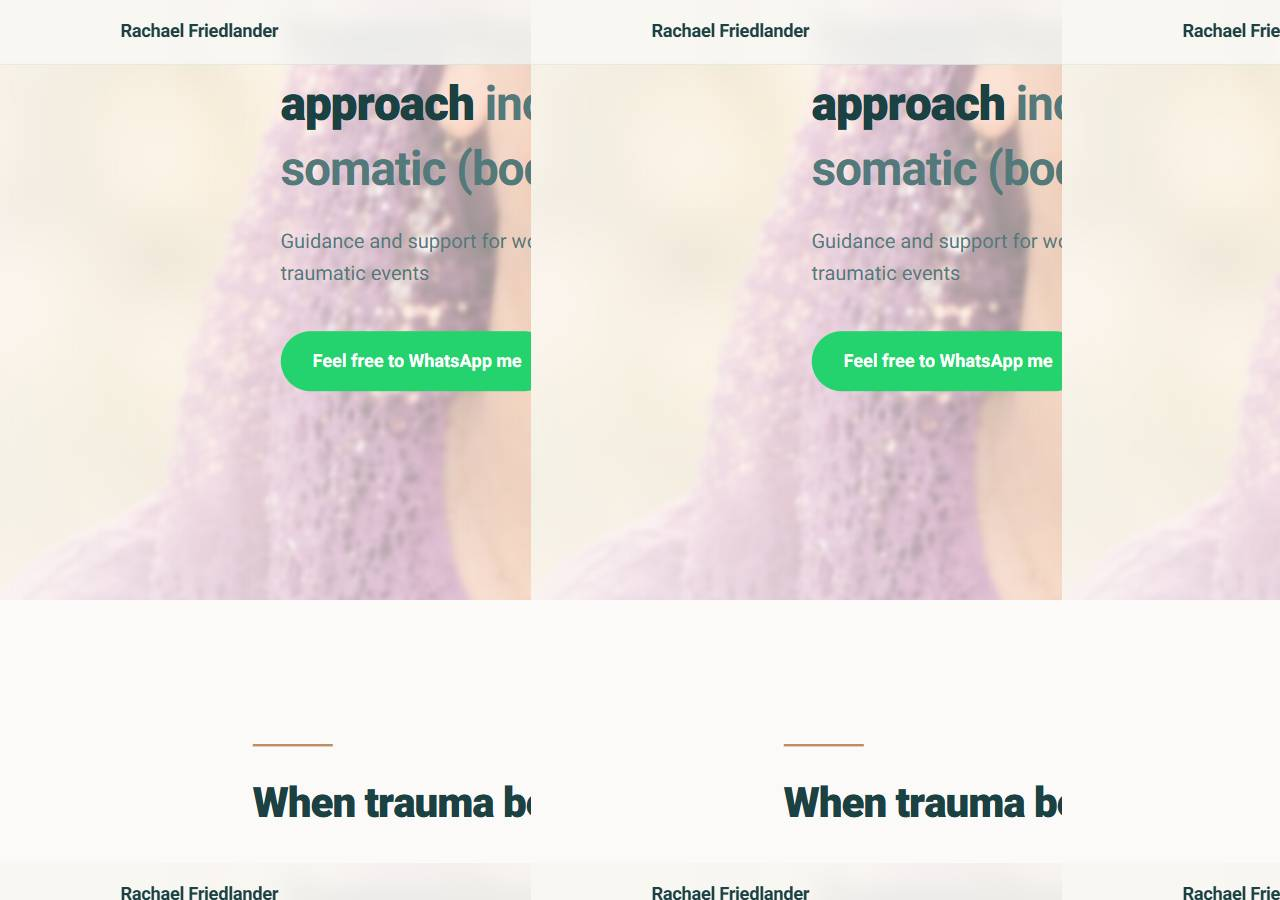
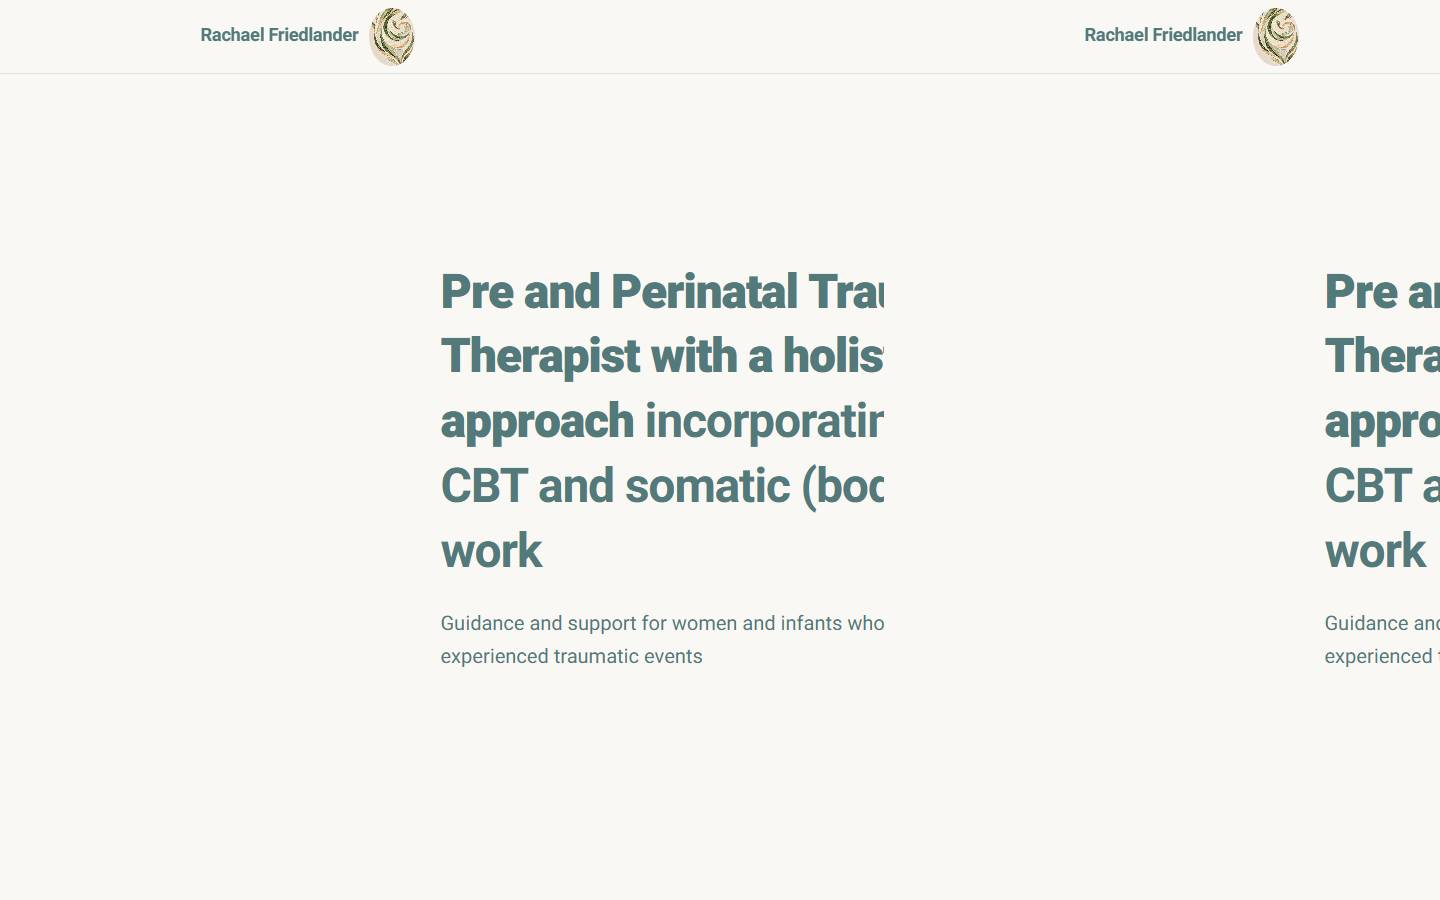
Hebrew, and alignment fixes

diff --git a/index.html b/index.html
@@ -5,6 +5,25 @@
   <meta name="viewport" content="width=device-width, initial-scale=1">
   <title>Rachael Friedlander | Trauma Therapist</title>
   <meta name="description" content="Guidance and support for women and infants who have experienced traumatic events. Trauma therapy with a holistic approach incorporating CBT and somatic work.">
+  <script>
+    (function () {
+      var stored;
+      try { stored = localStorage.getItem("lang"); } catch (e) {}
+      var primary = (navigator.language || "").toLowerCase();
+      var hebrew = /^he([-_]|$)/.test(primary) || /^iw([-_]|$)/.test(primary);
+      var lang = stored === "he" || stored === "en" ? stored : (hebrew ? "he" : "en");
+      var root = document.documentElement;
+      root.lang = lang;
+      root.dir = lang === "he" ? "rtl" : "ltr";
+      if (lang === "he") {
+        document.title = "רחל פרידלנדר | מטפלת בטראומה";
+        var desc = document.querySelector('meta[name="description"]');
+        if (desc) {
+          desc.setAttribute("content", "ליווי ותמיכה לנשים ולתינוקות שחוו אירועים טראומטיים. טיפול בטראומה בגישה הוליסטית המשלבת CBT ועבודה סומטית.");
+        }
+      }
+    })();
+  </script>
   <link rel="preconnect" href="https://fonts.googleapis.com">
   <link rel="preconnect" href="https://fonts.gstatic.com" crossorigin>
   <link href="https://fonts.googleapis.com/css2?family=Heebo:wght@400;500;600;700;800;900&display=swap" rel="stylesheet">
@@ -13,7 +32,15 @@
 <body>
   <header class="site-header">
     <div class="wrap header-inner">
-      <a class="brand" href="#top">Rachael Friedlander <img class="brand-logo" src="images/logo.png" alt=""></a>
+      <a class="brand" href="#top">
+        <span class="i18n-en">Rachael Friedlander</span>
+        <span class="i18n-he">רחל פרידלנדר</span>
+        <img class="brand-logo" src="images/logo.png" alt="">
+      </a>
+      <div class="lang-switch" role="group" aria-label="Language">
+        <button type="button" class="lang-option" data-set-lang="en" lang="en">EN</button>
+        <button type="button" class="lang-option" data-set-lang="he" lang="he">עב</button>
+      </div>
     </div>
   </header>
 
@@ -24,18 +51,35 @@
       </div>
       <div class="hero-shade" aria-hidden="true"></div>
       <div class="wrap hero-copy">
-        <h1>Pre and Perinatal Trauma Therapist with a holistic approach <span class="h1-muted">incorporating CBT and somatic (body) work</span></h1>
-        <p class="lede">Guidance and support for women and infants who have experienced traumatic events</p>
+        <h1>
+          <span class="i18n-en">Pre and Perinatal Trauma Therapist with a holistic approach</span>
+          <span class="i18n-he">מטפלת בטראומה <span class="nowrap">טרום־לידתית</span> ו<span class="nowrap">סב־לידתית</span> בגישה הוליסטית</span>
+          <span class="h1-muted i18n-en">incorporating CBT and somatic (body) work</span>
+          <span class="h1-muted i18n-he">המשלבת <span class="ltr">CBT</span> ועבודה סומטית <span class="nowrap">(עבודה עם הגוף)</span></span>
+        </h1>
+        <p class="lede">
+          <span class="i18n-en">Guidance and support for women and infants who have experienced traumatic events</span>
+          <span class="i18n-he">ליווי ותמיכה לנשים ולתינוקות שחוו אירועים טראומטיים</span>
+        </p>
       </div>
     </section>
 
     <section class="band band-card">
       <div class="wrap narrow">
         <span class="rule" aria-hidden="true"></span>
-        <h2>When trauma becomes overwhelming</h2>
+        <h2>
+          <span class="i18n-en">When trauma becomes overwhelming</span>
+          <span class="i18n-he">כשהטראומה הופכת למציפה</span>
+        </h2>
         <!-- DRAFT FOR REVIEW: These two paragraphs were blank in the Google Doc. They use only the people and methods Rachael already named. Replace them when final copy is ready. -->
-        <p>Trauma can show up as anxiety, chronic pain, grief, a difficult birth, or a relationship that feels stuck. It can leave you overwhelmed, disconnected, or unsure how to help your child.</p>
-        <p class="emphasis">Sessions bring together CBT and somatic work, so we can go at your pace with both the story and what the body is holding, and look for what helps you, and/or your family/baby, feel safer and more stable.</p>
+        <p>
+          <span class="i18n-en">Trauma can show up as anxiety, chronic pain, grief, a difficult birth, or a relationship that feels stuck. It can leave you overwhelmed, disconnected, or unsure how to help your child.</span>
+          <span class="i18n-he">טראומה יכולה להופיע כחרדה, כאב כרוני, אבל, לידה קשה, או קשר שמרגיש תקוע. היא יכולה להשאיר תחושה של הצפה וניתוק, או קושי לדעת איך לעזור לילד.</span>
+        </p>
+        <p class="emphasis">
+          <span class="i18n-en">Sessions bring together CBT and somatic work, so we can go at your pace with both the story and what the body is holding, and look for what helps you, and/or your family/baby, feel safer and more stable.</span>
+          <span class="i18n-he">במפגשים משלבים <span class="ltr">CBT</span> ועבודה סומטית, כך שאפשר להתקדם בקצב שלך גם עם הסיפור וגם עם מה שהגוף מחזיק, ולחפש את מה שעוזר לך ו/או למשפחה או לתינוק להרגיש יותר ביטחון ויציבות.</span>
+        </p>
       </div>
     </section>
 
@@ -45,22 +89,43 @@
       </div>
       <div class="wrap">
         <span class="rule" aria-hidden="true"></span>
-        <h2>Who I help</h2>
+        <h2>
+          <span class="i18n-en">Who I help</span>
+          <span class="i18n-he">את מי אני מלווה</span>
+        </h2>
         <div class="cards">
           <article class="card">
             <span class="rule" aria-hidden="true"></span>
-            <h3>Women</h3>
-            <p>Women who are suffering from depression, anxiety, grief, loss, or relational issues.</p>
+            <h3>
+              <span class="i18n-en">Women</span>
+              <span class="i18n-he">נשים</span>
+            </h3>
+            <p>
+              <span class="i18n-en">Women who are suffering from depression, anxiety, grief, loss, or relational issues.</span>
+              <span class="i18n-he">נשים שסובלות מדיכאון, מחרדה, מאבל, מאובדן או מקשיים בקשר.</span>
+            </p>
           </article>
           <article class="card card-focus">
             <span class="rule" aria-hidden="true"></span>
-            <h3>Post-partum mums and babies</h3>
-            <p>Mums and/or babies suffering from pre or perinatal trauma.</p>
+            <h3>
+              <span class="i18n-en">Post-partum mums and babies</span>
+              <span class="i18n-he">אמהות אחרי לידה ותינוקות</span>
+            </h3>
+            <p>
+              <span class="i18n-en">Mums and/or babies suffering from pre or perinatal trauma.</span>
+              <span class="i18n-he">אמהות ו/או תינוקות עם טראומה <span class="nowrap">טרום־לידתית</span> או <span class="nowrap">סב־לידתית</span>.</span>
+            </p>
           </article>
           <article class="card">
             <span class="rule" aria-hidden="true"></span>
-            <h3>Parents</h3>
-            <p>Parents experiencing issues with children, teens, or adult children.</p>
+            <h3>
+              <span class="i18n-en">Parents</span>
+              <span class="i18n-he">הורים</span>
+            </h3>
+            <p>
+              <span class="i18n-en">Parents experiencing issues with children, teens, or adult children.</span>
+              <span class="i18n-he">הורים שמתמודדים עם קשיים מול ילדים, מתבגרים או ילדים בוגרים.</span>
+            </p>
           </article>
         </div>
       </div>
@@ -69,26 +134,50 @@
     <section class="band band-sage">
       <div class="wrap narrow">
         <span class="rule" aria-hidden="true"></span>
-        <h2>About Me</h2>
-        <p class="welcome">Hey there and welcome!</p>
-        <p>I am a licensed clinical social worker with a Masters in Social work and a Masters in Counseling. I trained in Cognitive Behavioural Therapy at the Israel Centre for Psychotrauma and am a qualified Somatic Experiencing therapist.</p>
-        <p>I also trained with Dr Jonathan Evans (pediatric osteopath and craniosacral therapist) in Touch Therapy with newborns and infants.</p>
-        <p>I have extensive experience in pre and perinatal trauma, developmental trauma, anxiety and depression in women. I also treat infants and children who have experienced medical procedure trauma, and/or grief and loss.</p>
+        <h2>
+          <span class="i18n-en">About Me</span>
+          <span class="i18n-he">עליי</span>
+        </h2>
+        <p class="welcome">
+          <span class="i18n-en">Hey there and welcome!</span>
+          <span class="i18n-he">היי, וברוכים הבאים!</span>
+        </p>
+        <p>
+          <span class="i18n-en">I am a licensed clinical social worker with a Masters in Social work and a Masters in Counseling. I trained in Cognitive Behavioural Therapy at the Israel Centre for Psychotrauma and am a qualified Somatic Experiencing therapist.</span>
+          <span class="i18n-he">אני עובדת סוציאלית קלינית מוסמכת, בעלת תואר שני בעבודה סוציאלית ותואר שני בייעוץ. התמחיתי בטיפול קוגניטיבי־התנהגותי במרכז הישראלי לטיפול בפסיכוטראומה, ואני מטפלת מוסמכת בשיטת <span class="ltr">Somatic Experiencing.</span></span>
+        </p>
+        <p>
+          <span class="i18n-en">I also trained with Dr Jonathan Evans (pediatric osteopath and craniosacral therapist) in Touch Therapy with newborns and infants.</span>
+          <span class="i18n-he">התמחיתי גם אצל ד״ר ג׳ונתן אוונס (אוסטאופת ילדים ומטפל בקרניוסקרל) בטיפול במגע לילודים ולתינוקות.</span>
+        </p>
+        <p>
+          <span class="i18n-en">I have extensive experience in pre and perinatal trauma, developmental trauma, anxiety and depression in women. I also treat infants and children who have experienced medical procedure trauma, and/or grief and loss.</span>
+          <span class="i18n-he">יש לי ניסיון רב בטראומה <span class="nowrap">טרום־לידתית</span> ו<span class="nowrap">סב־לידתית</span>, בטראומה התפתחותית, ובחרדה ובדיכאון אצל נשים. אני מטפלת גם בתינוקות ובילדים שעברו טראומה בעקבות הליכים רפואיים, ו/או אבל ואובדן.</span>
+        </p>
       </div>
     </section>
 
     <section class="band band-close">
       <div class="wrap narrow">
         <span class="rule" aria-hidden="true"></span>
-        <h2>You do not have to go through this alone</h2>
-        <p>If you are living with the effects of trauma, caring for a baby after a difficult beginning, or looking for support as a parent, you are welcome to contact me.</p>
+        <h2>
+          <span class="i18n-en">You do not have to go through this alone</span>
+          <span class="i18n-he">את לא צריכה לעבור את זה לבד</span>
+        </h2>
+        <p>
+          <span class="i18n-en">If you are living with the effects of trauma, caring for a baby after a difficult beginning, or looking for support as a parent, you are welcome to contact me.</span>
+          <span class="i18n-he">אם מדובר בחיים לצד השפעות של טראומה, בליווי תינוק אחרי התחלה קשה, או בחיפוש תמיכה כהורה — אפשר לפנות אליי.</span>
+        </p>
       </div>
     </section>
   </main>
 
   <footer class="site-footer" id="contact">
-    <div class="wrap">
-      <p class="footer-name">Rachael Friedlander, MA, MBA, MSW, SEP</p>
+    <div class="wrap narrow">
+      <p class="footer-name">
+        <span class="i18n-en">Rachael Friedlander, MA, MBA, MSW, SEP</span>
+        <span class="i18n-he">רחל פרידלנדר, <span dir="ltr">MA, MBA, MSW, SEP</span></span>
+      </p>
       <p class="footer-contact">
         <a class="button" data-whatsapp href="https://wa.me/972544490957" aria-label="WhatsApp">
           <svg viewBox="0 0 24 24" aria-hidden="true" focusable="false">
@@ -99,23 +188,67 @@
           <svg viewBox="0 0 24 24" aria-hidden="true" focusable="false">
             <path fill="currentColor" d="M6.6 10.8a15.1 15.1 0 0 0 6.6 6.6l2.2-2.2a1 1 0 0 1 1-.25 11.4 11.4 0 0 0 3.6.57 1 1 0 0 1 1 1V20a1 1 0 0 1-1 1A17 17 0 0 1 3 4a1 1 0 0 1 1-1h3.5a1 1 0 0 1 1 1 11.4 11.4 0 0 0 .57 3.6 1 1 0 0 1-.25 1L6.6 10.8z"/>
           </svg>
-          +972 54 4490957
+          <span dir="ltr">+972 54 4490957</span>
         </a>
         <a href="mailto:rach_fried@yahoo.com">
           <svg viewBox="0 0 24 24" aria-hidden="true" focusable="false">
             <path fill="currentColor" d="M20 4H4a2 2 0 0 0-2 2v12a2 2 0 0 0 2 2h16a2 2 0 0 0 2-2V6a2 2 0 0 0-2-2zm0 4-8 5L4 8V6l8 5 8-5v2z"/>
           </svg>
-          rach_fried@yahoo.com
+          <span dir="ltr">rach_fried@yahoo.com</span>
         </a>
       </p>
     </div>
   </footer>
 
   <script>
-    const WHATSAPP_URL = "https://wa.me/972544490957";
-    document.querySelectorAll("[data-whatsapp]").forEach((link) => {
-      link.href = WHATSAPP_URL;
-    });
+    (function () {
+      var KEY = "lang";
+      var copy = {
+        en: {
+          title: "Rachael Friedlander | Trauma Therapist",
+          description: "Guidance and support for women and infants who have experienced traumatic events. Trauma therapy with a holistic approach incorporating CBT and somatic work.",
+          langLabel: "Language",
+          whatsapp: "WhatsApp"
+        },
+        he: {
+          title: "רחל פרידלנדר | מטפלת בטראומה",
+          description: "ליווי ותמיכה לנשים ולתינוקות שחוו אירועים טראומטיים. טיפול בטראומה בגישה הוליסטית המשלבת CBT ועבודה סומטית.",
+          langLabel: "שפה",
+          whatsapp: "וואטסאפ"
+        }
+      };
+
+      function apply(lang, persist) {
+        var text = copy[lang] || copy.en;
+        var root = document.documentElement;
+        root.lang = lang;
+        root.dir = lang === "he" ? "rtl" : "ltr";
+        document.title = text.title;
+        var desc = document.querySelector('meta[name="description"]');
+        if (desc) desc.setAttribute("content", text.description);
+        var group = document.querySelector(".lang-switch");
+        if (group) group.setAttribute("aria-label", text.langLabel);
+        document.querySelectorAll("[data-set-lang]").forEach(function (button) {
+          var selected = button.getAttribute("data-set-lang") === lang;
+          button.setAttribute("aria-pressed", selected ? "true" : "false");
+        });
+        document.querySelectorAll("[data-whatsapp]").forEach(function (link) {
+          link.href = "https://wa.me/972544490957";
+          link.setAttribute("aria-label", text.whatsapp);
+        });
+        if (persist) {
+          try { localStorage.setItem(KEY, lang); } catch (e) {}
+        }
+      }
+
+      document.querySelectorAll("[data-set-lang]").forEach(function (button) {
+        button.addEventListener("click", function () {
+          apply(button.getAttribute("data-set-lang"), true);
+        });
+      });
+
+      apply(document.documentElement.lang === "he" ? "he" : "en", false);
+    })();
   </script>
 </body>
 </html>

diff --git a/styles.css b/styles.css
@@ -182,9 +182,78 @@ p {
 }
 
 .button:focus-visible,
-.brand:focus-visible {
+.brand:focus-visible,
+.lang-option:focus-visible {
   outline: 2px solid var(--ink);
   outline-offset: 3px;
+}
+
+.lang-switch {
+  direction: ltr;
+  display: inline-flex;
+  flex: none;
+  align-items: center;
+  padding: 3px;
+  border: 1px solid var(--line);
+  border-radius: 999px;
+  background: rgba(255, 255, 255, 0.65);
+}
+
+.lang-option {
+  appearance: none;
+  margin: 0;
+  border: 0;
+  border-radius: 999px;
+  background: transparent;
+  color: var(--muted);
+  font: inherit;
+  font-size: 0.8rem;
+  font-weight: 700;
+  letter-spacing: 0.02em;
+  line-height: 1;
+  padding: 0.42rem 0.68rem;
+  cursor: pointer;
+}
+
+.lang-option:hover {
+  color: var(--ink);
+}
+
+html:not([lang="he"]) .lang-option[data-set-lang="en"],
+html[lang="he"] .lang-option[data-set-lang="he"] {
+  background: var(--ink);
+  color: var(--page);
+}
+
+html:not([lang="he"]) .lang-option[data-set-lang="en"]:hover,
+html[lang="he"] .lang-option[data-set-lang="he"]:hover {
+  color: var(--page);
+}
+
+html[lang="he"] h1,
+html[lang="he"] h2,
+html[lang="he"] h3,
+html[lang="he"] .brand {
+  letter-spacing: 0;
+}
+
+html[lang="he"] h1 {
+  line-height: 1.45;
+}
+
+html[lang="he"] .i18n-en,
+html:not([lang="he"]) .i18n-he {
+  display: none;
+}
+
+.nowrap {
+  white-space: nowrap;
+}
+
+.ltr {
+  unicode-bidi: isolate;
+  direction: ltr;
+  white-space: nowrap;
 }
 
 .hero {
@@ -216,7 +285,7 @@ p {
 
 .hero-shade {
   background: linear-gradient(
-    to right,
+    to inline-end,
     rgba(250, 248, 245, 0.85) 0%,
     rgba(250, 248, 245, 0.4) 50%,
     rgba(250, 248, 245, 0.2) 100%
@@ -441,9 +510,7 @@ p {
   .hero-media {
     inset: auto;
     top: 50%;
-    right: max(2.5rem, calc((100% - 1180px) / 2));
-    bottom: auto;
-    left: auto;
+    inset-inline-end: max(2.5rem, calc((100% - 1180px) / 2));
     width: min(320px, 26vw);
     transform: translateY(-50%);
   }
@@ -462,7 +529,7 @@ p {
 
   .hero-shade {
     background: linear-gradient(
-      to right,
+      to inline-end,
       rgba(250, 248, 245, 0.96) 0%,
       rgba(250, 248, 245, 0.9) 40%,
       rgba(250, 248, 245, 0.45) 68%,
